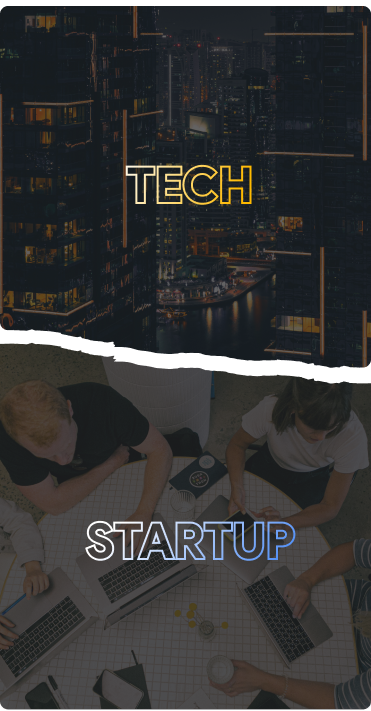
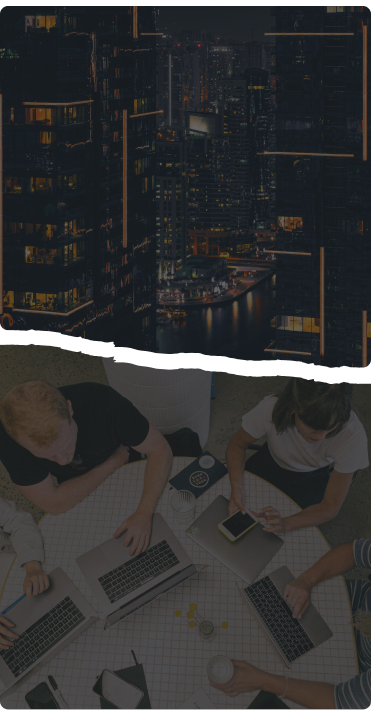
corrected bgimg mobile view

Changed region(s): [[0.2372, 0.7117, 0.8005, 0.8045], [0.3261, 0.2166, 0.6819, 0.3094], [0.2965, 0.4951, 0.3261, 0.526]]

diff --git a/src/components/themesSection/ThemesSection.js b/src/components/themesSection/ThemesSection.js
@@ -27,7 +27,7 @@ const ThemesSection = () => {
           alt="background"
         />
 
-        <img className={styles.bgimg2} src={theme === "light" ? BgImg1Dark : BgImg1Dark} alt="background" />
+        <img className={styles.bgimg2} src={theme === "light" ? BgImg1 : BgImg1Dark} alt="background" />
         <div className={styles.textContainer}>
           <div className={styles.techImg}>
             <Tech />
